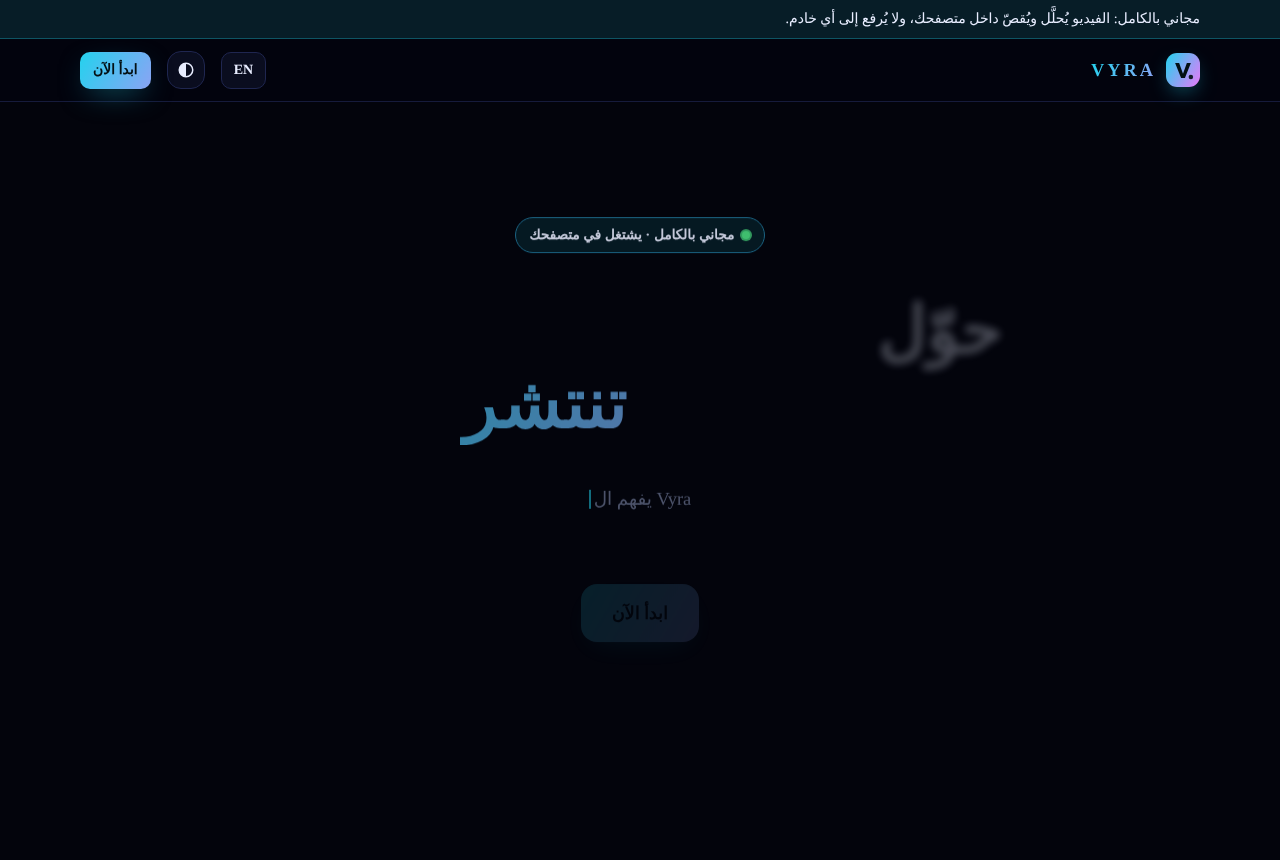
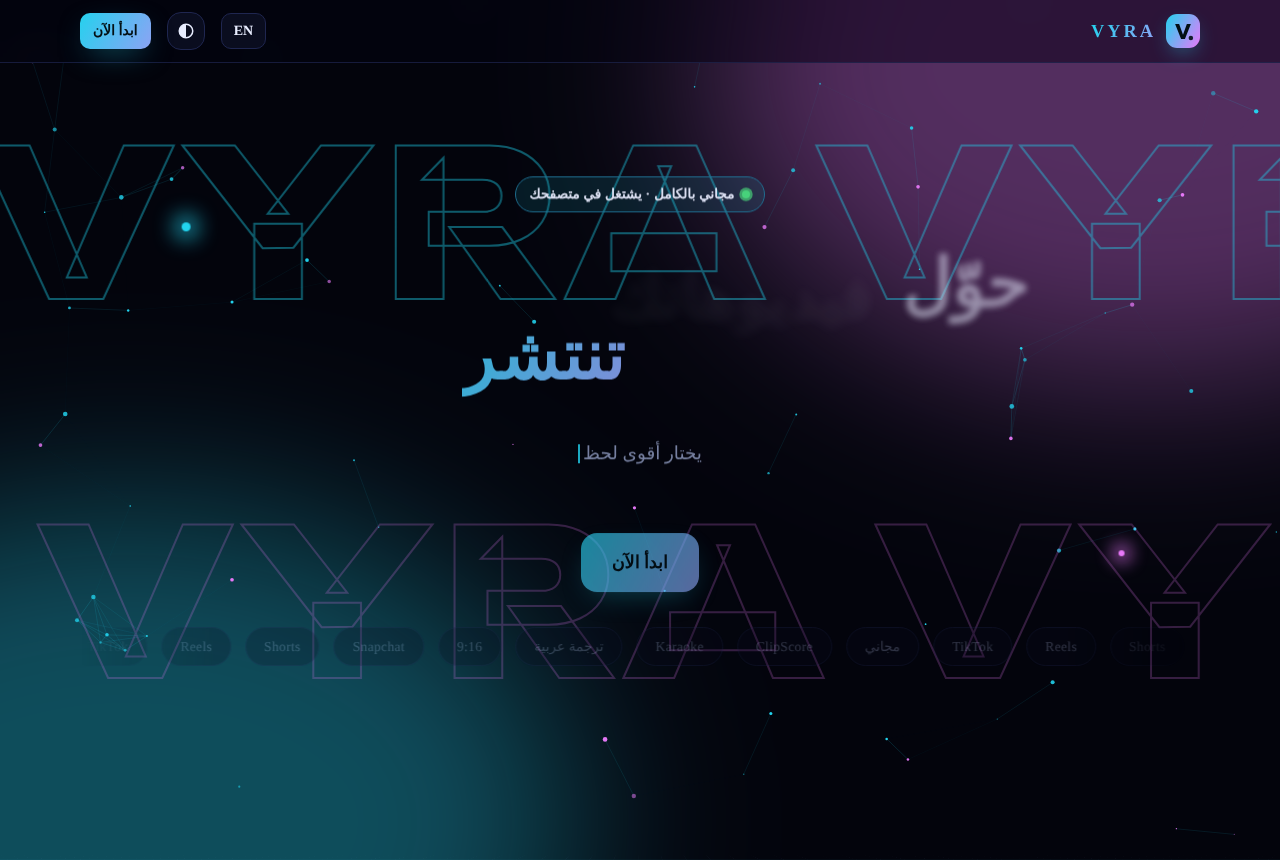
Simpler: two-step new project (pick video, pick language, one big start), options tucked away, no link tab in the free version, fewer words everywhere, result cards lead with Download, short disclaimer at the end
Claude-Session: https://claude.ai/code/session_012WBhWfUbRwin1wPpV6Fz8Z

diff --git a/apps/web/lib/i18n.tsx b/apps/web/lib/i18n.tsx
@@ -7,33 +7,33 @@ const ar: Dict = {
   tagline: "من الحلقة الطويلة إلى مقاطع جاهزة للنشر — بالعربي",
   nav_projects: "مشاريعي", nav_settings: "الإعدادات", nav_new: "مشروع جديد",
   no_watermark: "بدون علامة مائية",
-  phone_note: "على الجوال: أول مرة يُحمَّل نموذج تفريغ الكلام (حوالي 250 ميجابايت، يُفضَّل Wi-Fi)، ونفرّغ أهم 3 دقائق من الكلام لأن الجوال أبطأ. خلّ الشاشة مفتوحة وابقَ في الصفحة حتى ينتهي. للفيديوهات الطويلة الكمبيوتر أسرع وأدق.",
+  phone_note: "على الجوال: أول مرة يحمّل النموذج (يُفضّل Wi-Fi). خلّ الشاشة مفتوحة حتى ينتهي.",
   local_banner: "مجاني بالكامل: الفيديو يُحلَّل ويُقصّ داخل متصفحك، ولا يُرفع إلى أي خادم.",
   local_landing: "مجاني بالكامل وبدون حساب: ارفع حلقتك، ويحلّلها متصفحك ويطلع أقوى المقاطع العمودية مع الترجمة.",
   processing_hint_local: "التحليل يتم داخل متصفحك: أبقِ هذه الصفحة مفتوحة حتى ينتهي. أول مرة يُحمَّل نموذج تفريغ الكلام (مرة واحدة فقط).",
   local_export_note: "التصدير يتم داخل متصفحك وبالسرعة الطبيعية للمقطع؛ أبقِ الصفحة ظاهرة حتى ينتهي.",
   try_sample: "شوف مثالًا حقيقيًا جاهزًا", sample_loading: "جارٍ فتح المثال…",
-  showcase_t: "مقاطع حقيقية طلّعها Vyra من مقابلة عربية مدتها 10 دقائق", showcase_tap: "اضغط على أي مقطع لتسمع الصوت", showcase_open: "افتح المثال كاملًا وجرّب المحرّر",
+  showcase_t: "أمثلة حقيقية", showcase_tap: "اضغط على أي مقطع لتسمع الصوت", showcase_open: "افتح المثال كاملًا وجرّب المحرّر",
   showcase_credit: "المصدر: مقابلة «ولاء عبد المنعم» من ويكيميديا كومنز، إعداد Anass (WMF)، برخصة CC BY 3.0. اختار المقاطع وفرّغها محرّك Vyra داخل المتصفح، مع تصحيح يدوي لبعض كلمات الترجمة في المقاطع المعروضة.",
   stage_model: "تحميل نموذج تفريغ الكلام إلى متصفحك (حوالي 250 ميجابايت، مرة واحدة فقط)…",
   url_local_note: "استيراد روابط يوتيوب يحتاج خادمًا مدفوعًا، فهو غير متاح في النسخة المجانية. نزّل الفيديو ثم ارفعه من خيار «ملف».",
   long_video_note: "الفيديوهات الطويلة: نفرّغ أهم 10 دقائق من الكلام فيها فقط لتسريع التحليل.",
   demo_banner: "وضع تجريبي: الموقع غير متصل بخادم المعالجة بعد، لذلك لا يُحلَّل فيديوك أو رابطك — يُعرض مثال جاهز من حلقة نموذجية (المقاطع واللقطات مُنتجة فعليًا بمحرّك Vyra). التحليل الحقيقي يحتاج تشغيل خادم المعالجة.",
   hero_title: "حوّل حلقتك الطويلة إلى مقاطع تُشاهَد حتى النهاية",
-  hero_sub: "Vyra يفهم المعنى بالعربية (فصحى ولهجات)، فيقصّ عند حدود الأفكار لا عند أرقام ثابتة: بداية مفهومة، نهاية مكتملة، وترجمة عربية سليمة الحروف والاتجاه.",
-  f1_t: "يفهم السياق لا الصوت العالي", f1_d: "تقييم شفاف من 100 لكل مقطع، مع شرح عربي لسبب اقتراحه.",
-  f2_t: "ترجمة عربية صحيحة", f2_d: "اتصال الحروف واتجاه RTL وإبراز الكلمات، داخل مناطق آمنة بعيدة عن أزرار المنصات.",
-  f3_t: "بلا حساب ولا حدود", f3_d: "لا تسجيل دخول ولا اشتراك ولا حد للدقائق، والتصدير بجودة 1080p بدون أي علامة مائية.",
-  f4_t: "خصوصيتك أولًا", f4_d: "لا نُدرّب نماذج على فيديوهاتك دون موافقتك. حذف نهائي بضغطة، وحذف تلقائي بعد المدة التي تختارها.",
-  how_t: "كيف يعمل؟", s1: "ارفع الفيديو أو الصق رابطه", s2: "نفرّغ الكلام ونفهم الأفكار", s3: "نقترح أفضل المقاطع", s4: "عدّل وصدّر لـ TikTok وReels وShorts",
-  legal_note: "نستورد فقط الفيديوهات التي ترفعها أو ترسل رابطها أنت، ويجب أن تملك حقوقها أو إذنًا باستخدامها. لا نتجاوز أي حماية (فيديو خاص أو مشفّر) ولا ننشر نيابةً عنك بلا واجهة رسمية.",
+  hero_sub: "يختار أقوى لحظات فيديوك، يقصّها عموديًا، ويضيف الترجمة. مجانًا.",
+  f1_t: "أفضل اللقطات تلقائيًا", f1_d: "",
+  f2_t: "ترجمة عربية وإنجليزية", f2_d: "",
+  f3_t: "مجاني بلا حساب", f3_d: "",
+  f4_t: "تحميل 1080p فوري", f4_d: "",
+  how_t: "كيف يعمل؟", s1: "اختر الفيديو", s2: "نحلّله", s3: "اختر اللقطة", s4: "حمّلها",
+  legal_note: "إخلاء مسؤولية: أنت مسؤول عن حقوق أي فيديو ترفعه. التحليل والترجمة آليان وقد يحتويان أخطاء، راجع المقطع قبل نشره. فيديوك يُعالَج داخل متصفحك ولا يُرفع لأي خادم.",
   name: "الاسم",
   projects_title: "مشاريعي", no_projects: "لا توجد مشاريع بعد. ابدأ بمشروعك الأول.",
   start_now: "ابدأ الآن", no_account_title: "بدون حساب", device_note: "لا يوجد تسجيل دخول. مشاريعك مرتبطة بهذا المتصفح فقط؛ إن مسحت بيانات المتصفح أو غيّرت الجهاز فلن تستطيع الوصول إليها. نزّل المقاطع المصدَّرة لتحتفظ بها.",
   server_down: "تعذّر الاتصال بالخادم. تأكد أنه يعمل ثم حاول مجددًا.", retry: "إعادة المحاولة",
   new_title: "مشروع جديد", project_name: "اسم المشروع", pick_video: "اختر فيديو أو اسحبه هنا", pick_srt: "ملف ترجمة SRT/VTT (اختياري، يتجاوز التفريغ)",
   demo_upload_note: "في الوضع التجريبي يُستخدم فيديو نموذجي بدل ملفك.", start_analysis: "ابدأ التحليل", uploading: "جارٍ الرفع…",
-  eyebrow: "مجاني بالكامل · يشتغل في متصفحك", src_file: "رفع ملف", src_url: "من رابط", soon: "قريبًا", hero_lead: "حوّل فيديوهاتك الطويلة إلى مقاطع", hero_rot: "تنتشر|تُشاهَد|تبيع|تُبهر", dl_clip: "تحميل", dl_working: "نجهّز المقطع بالترجمة (أبقِ الصفحة مفتوحة)…", dl_ready: "تم: احفظ المقطع", dl_fail: "تعذّر تجهيز المقطع.", translating: "نترجم…", tr_fail: "تعذّرت الترجمة. تأكد من الاتصال بالإنترنت وجرّب مرة ثانية.", cap_lang: "لغة الترجمة على المقطع", cap_ar_tr: "عربية (مترجمة)", stage_translate: "الترجمة للعربية", tr_note: "نفرّغ الكلام بالإنجليزي ثم نترجمه للعربية بنموذج ترجمة داخل متصفحك (يُحمَّل مرة واحدة، حوالي 110 ميجا). تقدر تعدّل أي كلمة بعدها من تبويب «النص».", brand_title: "ألوان الهوية", brand_hint: "اختر لونين: يُطبَّقان على الموقع، ولافتة العنوان الافتتاحي، وإبراز الترجمة في المقاطع الجديدة.", brand_a: "اللون الأول", brand_b: "اللون الثاني", brand_reset: "إعادة الافتراضي", brand_sample: "هكذا ستظهر لافتة مقطعك", cap_presets: "أنماط جاهزة (ضغطة وحدة)", hook_on: "عنوان افتتاحي في أول ثواني", hook_ph: "اكتب عنوانًا جاذبًا", filter_all: "الكل", sort_score: "الأعلى تقييمًا", sort_time: "حسب الوقت", top_pick: "الأفضل", lang_label: "لغة الكلام في الفيديو", lang_auto: "تلقائي (يكتشفها النموذج)", lang_note: "مهم: اختر اللغة اللي يتكلم بها الفيديو فعلًا. لو اخترت العربية والكلام إنجليزي تطلع الترجمة غلط.", upload_first: "لازم تحمّل الفيديو على جهازك أولًا ثم ترفعه هنا. الاستيراد من الرابط قريبًا.", video_url: "رابط الفيديو", video_url_ph: "https://www.youtube.com/watch?v=…",
+  eyebrow: "مجاني بالكامل · يشتغل في متصفحك", src_file: "رفع ملف", src_url: "من رابط", soon: "قريبًا", easy_title: "اصنع مقاطعك", easy_sub: "خطوتين بس، والباقي علينا.", easy_s1: "اختر الفيديو", easy_s2: "الفيديو يتكلم بأي لغة؟", easy_pick: "اضغط هنا لاختيار فيديو", easy_pick_sub: "من جوالك أو جهازك، أو اسحبه هنا", easy_change: "اضغط لتغييره", easy_cap_en: "ترجمة إنجليزية", easy_more: "خيارات إضافية (اختياري)", hero_lead: "حوّل فيديوهاتك الطويلة إلى مقاطع", hero_rot: "تنتشر|تُشاهَد|تبيع|تُبهر", dl_clip: "تحميل", dl_working: "نجهّز المقطع بالترجمة (أبقِ الصفحة مفتوحة)…", dl_ready: "تم: احفظ المقطع", dl_fail: "تعذّر تجهيز المقطع.", translating: "نترجم…", tr_fail: "تعذّرت الترجمة. تأكد من الاتصال بالإنترنت وجرّب مرة ثانية.", cap_lang: "لغة الترجمة على المقطع", cap_ar_tr: "عربية (مترجمة)", stage_translate: "الترجمة للعربية", tr_note: "نفرّغه بالإنجليزي ونترجمه للعربية.", brand_title: "ألوان الهوية", brand_hint: "اختر لونين: يُطبَّقان على الموقع، ولافتة العنوان الافتتاحي، وإبراز الترجمة في المقاطع الجديدة.", brand_a: "اللون الأول", brand_b: "اللون الثاني", brand_reset: "إعادة الافتراضي", brand_sample: "هكذا ستظهر لافتة مقطعك", cap_presets: "أنماط جاهزة (ضغطة وحدة)", hook_on: "عنوان افتتاحي في أول ثواني", hook_ph: "اكتب عنوانًا جاذبًا", filter_all: "الكل", sort_score: "الأعلى تقييمًا", sort_time: "حسب الوقت", top_pick: "الأفضل", lang_label: "لغة الكلام في الفيديو", lang_auto: "تلقائي (يكتشفها النموذج)", lang_note: "اختر لغة الكلام الفعلية في الفيديو.", upload_first: "روابط يوتيوب قريبًا. الحين: حمّل الفيديو على جهازك ثم اختره هنا.", video_url: "رابط الفيديو", video_url_ph: "https://www.youtube.com/watch?v=…",
   url_hint: "يوتيوب وغيره من المواقع العامة. الفيديوهات الخاصة أو المحمية لا تعمل. استخدم فقط فيديوهات تملك حقوقها أو إذنًا باستخدامها.",
   demo_url_note: "في الوضع التجريبي لا يُنزَّل الرابط فعليًا؛ يُستخدم فيديو نموذجي بدله.", downloading: "جارٍ تنزيل الفيديو من الرابط…",
   status_empty: "فارغ", status_ready: "جاهز للتحليل", status_processing: "قيد المعالجة", status_done: "اكتمل", status_error: "خطأ",
@@ -48,7 +48,7 @@ const ar: Dict = {
   engine_heuristic: "تحليل محلي (بدون Claude)", engine_browser: "تحليل داخل المتصفح", engine_claude: "Claude",
   ed_trim: "القص", ed_emph: "إبراز", ed_layout: "التخطيط", ed_captions: "الترجمة", ed_text: "النص", ed_export: "التصدير",
   start: "البداية", end: "النهاية", layout_fill: "ملء الإطار", layout_fit: "احتواء بخلفية", layout_split: "شاشة مقسومة",
-  reframe: "تتبّع الموضوع", reframe_auto: "تلقائي", reframe_note: "المعاينة تقريبية؛ التتبّع التلقائي للموضوع يُطبَّق عند التصدير.", reframe_center: "المنتصف", reframe_manual: "يدوي", center_pos: "موضع الإطار",
+  reframe: "تتبّع الموضوع", reframe_auto: "تلقائي", reframe_note: "", reframe_center: "المنتصف", reframe_manual: "يدوي", center_pos: "موضع الإطار",
   cap_on: "إظهار الترجمة", cap_mode: "النمط", cap_karaoke: "إبراز تدريجي", cap_plain: "عادي", cap_pop: "كلمة كلمة", cap_pos: "الموضع", pos_bottom: "أسفل", pos_middle: "وسط", pos_top: "أعلى",
   cap_size: "حجم الخط", cap_color: "اللون", emphasis_hint: "اضغط على كلمة لإبرازها أو إلغاء إبرازها",
   edit_words_hint: "عدّل الكلمات مباشرة؛ ينعكس ذلك على الترجمة المحروقة.", saved: "تم الحفظ", saving: "جارٍ الحفظ…", conflict: "عُدِّل هذا المقطع في مكان آخر. أعد التحميل.",
@@ -66,33 +66,33 @@ const en: Dict = {
   tagline: "From long episodes to ready-to-post clips — Arabic first",
   nav_projects: "Projects", nav_settings: "Settings", nav_new: "New project",
   no_watermark: "No watermark",
-  phone_note: "On a phone: the speech model (about 250 MB, Wi-Fi recommended) is downloaded the first time, and we transcribe the 3 most promising minutes because phones are slower. Keep the screen on and stay on this page until it finishes. For long videos a computer is faster and more accurate.",
+  phone_note: "On a phone: the model downloads the first time (Wi-Fi recommended). Keep the screen on until it finishes.",
   local_banner: "Completely free: your video is analysed and cut inside your browser and never uploaded to a server.",
   local_landing: "Completely free, no account: upload your episode and your browser finds the strongest vertical clips with captions.",
   processing_hint_local: "Analysis runs inside your browser: keep this page open until it finishes. The first time, the speech model is downloaded (only once).",
   local_export_note: "Export runs inside your browser in real time; keep the page visible until it finishes.",
   try_sample: "Open a real ready-made example", sample_loading: "Opening the example…",
-  showcase_t: "Real clips Vyra cut from a 10-minute Arabic interview", showcase_tap: "Tap a clip to hear it", showcase_open: "Open the full example and try the editor",
+  showcase_t: "Real examples", showcase_tap: "Tap a clip to hear it", showcase_open: "Open the full example and try the editor",
   showcase_credit: "Source: interview with Walaa Abdelmanaem, Wikimedia Commons, by Anass (WMF), CC BY 3.0. Clips chosen and transcribed by Vyra in the browser; a few caption words in the featured clips were corrected by hand.",
   stage_model: "Downloading the speech model to your browser (about 250 MB, only once)…",
   url_local_note: "Importing YouTube links needs a paid server, so it is not available in the free version. Download the video, then upload it with the File option.",
   long_video_note: "Long videos: we transcribe only the most important 10 minutes of speech to keep analysis fast.",
   demo_banner: "Demo mode: the site is not connected to a processing server yet, so your video or link is NOT analysed — a ready-made sample episode is shown instead (clips and frames were really produced by the Vyra engine). Real analysis needs the processing server running.",
   hero_title: "Turn your long episode into clips people watch to the end",
-  hero_sub: "Vyra understands Arabic meaning (MSA and dialects), cutting at the edges of ideas rather than fixed lengths: an understandable start, a complete ending, and correctly shaped RTL captions.",
-  f1_t: "Understands context, not loudness", f1_d: "A transparent score out of 100 for every clip, with a plain-language reason.",
-  f2_t: "Correct Arabic captions", f2_d: "Joined letters, RTL direction and word highlighting, inside safe zones clear of platform buttons.",
-  f3_t: "No account, no limits", f3_d: "No sign-in, no subscription and no minutes cap. 1080p exports with no watermark.",
-  f4_t: "Privacy first", f4_d: "We never train on your videos without consent. One-click permanent deletion and automatic expiry.",
-  how_t: "How it works", s1: "Upload a video or paste its link", s2: "We transcribe and understand the ideas", s3: "We suggest the best clips", s4: "Edit and export for TikTok, Reels and Shorts",
-  legal_note: "We only import videos you upload or link yourself, and you must own the rights or have permission to use them. We never bypass protections (private or DRM-protected video) or post for you without an official API.",
+  hero_sub: "Picks your video's strongest moments, cuts them vertical and adds captions. Free.",
+  f1_t: "Best moments, automatically", f1_d: "",
+  f2_t: "Arabic & English captions", f2_d: "",
+  f3_t: "Free, no account", f3_d: "",
+  f4_t: "Instant 1080p download", f4_d: "",
+  how_t: "How it works", s1: "Choose the video", s2: "We analyse it", s3: "Pick a clip", s4: "Download it",
+  legal_note: "Disclaimer: you are responsible for the rights to any video you upload. Analysis and translation are automatic and may contain mistakes; review clips before posting. Your video is processed in your browser and never uploaded.",
   name: "Name",
   projects_title: "My projects", no_projects: "No projects yet. Start with your first one.",
   start_now: "Get started", no_account_title: "No account", device_note: "There is no sign-in. Your projects are tied to this browser only; if you clear browser data or switch devices you will lose access to them. Download exported clips to keep them.",
   server_down: "Cannot reach the server. Make sure it is running and try again.", retry: "Try again",
   new_title: "New project", project_name: "Project name", pick_video: "Choose a video or drop it here", pick_srt: "SRT/VTT subtitles (optional, skips transcription)",
   demo_upload_note: "In demo mode a sample video is used instead of your file.", start_analysis: "Start analysis", uploading: "Uploading…",
-  eyebrow: "Completely free · runs in your browser", src_file: "Upload a file", src_url: "From a link", soon: "Soon", hero_lead: "Turn your long videos into clips that", hero_rot: "go viral|get seen|sell|stun", dl_clip: "Download", dl_working: "Rendering the clip with captions (keep this page open)…", dl_ready: "Done: save the clip", dl_fail: "Could not render the clip.", translating: "Translating…", tr_fail: "Translation failed. Check your connection and try again.", cap_lang: "Caption language", cap_ar_tr: "Arabic (translated)", stage_translate: "Translating to Arabic", tr_note: "We transcribe the English speech, then translate it to Arabic with a model in your browser (one-time ~110 MB download). You can fix any word afterwards in the Text tab.", brand_title: "Brand colours", brand_hint: "Pick two colours: used across the site, the opening-title banner and the caption highlight of new clips.", brand_a: "First colour", brand_b: "Second colour", brand_reset: "Reset to default", brand_sample: "This is how your clip banner will look", cap_presets: "One-tap styles", hook_on: "Opening title in the first seconds", hook_ph: "Write a catchy title", filter_all: "All", sort_score: "Top score", sort_time: "By time", top_pick: "Top pick", lang_label: "Spoken language in the video", lang_auto: "Auto-detect", lang_note: "Pick the language spoken in the video: transcription and analysis use it. Captions are in the spoken language.", upload_first: "Download the video to your device first, then upload it here. Importing from a link is coming soon.", video_url: "Video link", video_url_ph: "https://www.youtube.com/watch?v=…",
+  eyebrow: "Completely free · runs in your browser", src_file: "Upload a file", src_url: "From a link", soon: "Soon", easy_title: "Make your clips", easy_sub: "Two steps, we do the rest.", easy_s1: "Choose the video", easy_s2: "What language is spoken?", easy_pick: "Tap here to choose a video", easy_pick_sub: "From your phone or computer, or drop it here", easy_change: "Tap to change it", easy_cap_en: "English captions", easy_more: "More options (optional)", hero_lead: "Turn your long videos into clips that", hero_rot: "go viral|get seen|sell|stun", dl_clip: "Download", dl_working: "Rendering the clip with captions (keep this page open)…", dl_ready: "Done: save the clip", dl_fail: "Could not render the clip.", translating: "Translating…", tr_fail: "Translation failed. Check your connection and try again.", cap_lang: "Caption language", cap_ar_tr: "Arabic (translated)", stage_translate: "Translating to Arabic", tr_note: "We transcribe the English and translate it to Arabic.", brand_title: "Brand colours", brand_hint: "Pick two colours: used across the site, the opening-title banner and the caption highlight of new clips.", brand_a: "First colour", brand_b: "Second colour", brand_reset: "Reset to default", brand_sample: "This is how your clip banner will look", cap_presets: "One-tap styles", hook_on: "Opening title in the first seconds", hook_ph: "Write a catchy title", filter_all: "All", sort_score: "Top score", sort_time: "By time", top_pick: "Top pick", lang_label: "Spoken language in the video", lang_auto: "Auto-detect", lang_note: "Pick the language actually spoken in the video.", upload_first: "Download the video to your device first, then upload it here. Importing from a link is coming soon.", video_url: "Video link", video_url_ph: "https://www.youtube.com/watch?v=…",
   url_hint: "YouTube and other public sites. Private or protected videos won't work. Only use videos you own or have permission to use.",
   demo_url_note: "In demo mode the link is not actually downloaded; a sample video is used instead.", downloading: "Downloading the video from the link…",
   status_empty: "Empty", status_ready: "Ready to analyze", status_processing: "Processing", status_done: "Done", status_error: "Error",
@@ -107,7 +107,7 @@ const en: Dict = {
   engine_heuristic: "Local analysis (no Claude)", engine_browser: "In-browser analysis", engine_claude: "Claude",
   ed_trim: "Trim", ed_emph: "Emphasis", ed_layout: "Layout", ed_captions: "Captions", ed_text: "Text", ed_export: "Export",
   start: "Start", end: "End", layout_fill: "Fill frame", layout_fit: "Fit with blur", layout_split: "Split screen",
-  reframe: "Subject tracking", reframe_auto: "Auto", reframe_note: "Preview is approximate; automatic subject tracking is applied at export.", reframe_center: "Center", reframe_manual: "Manual", center_pos: "Frame position",
+  reframe: "Subject tracking", reframe_auto: "Auto", reframe_note: "", reframe_center: "Center", reframe_manual: "Manual", center_pos: "Frame position",
   cap_on: "Show captions", cap_mode: "Style", cap_karaoke: "Word highlight", cap_plain: "Plain", cap_pop: "Word by word", cap_pos: "Position", pos_bottom: "Bottom", pos_middle: "Middle", pos_top: "Top",
   cap_size: "Font size", cap_color: "Color", emphasis_hint: "Click a word to emphasize or un-emphasize it",
   edit_words_hint: "Edit words directly; changes are burned into the captions.", saved: "Saved", saving: "Saving…", conflict: "This clip was changed elsewhere. Reload.",

diff --git a/apps/web/app/app/new/page.tsx b/apps/web/app/app/new/page.tsx
@@ -44,7 +44,7 @@ export default function NewProject() {
     e.preventDefault();
     setOver(false);
     const f = e.dataTransfer.files?.[0];
-    if (f) { setFile(f); if (!name) setName(f.name.replace(/\.[^.]+$/, "")); }
+    if (f) { setFile(f); setName(f.name.replace(/\.[^.]+$/, "")); }
   };
 
   const local = backend.mode === "local";
@@ -89,59 +89,70 @@ export default function NewProject() {
     }
   };
 
+  const pickFile = (f: File | undefined) => { if (f) { setFile(f); setName(f.name.replace(/\.[^.]+$/, "")); setErr(""); } };
+
   return (
-    <form className="stack narrow" style={{ width: "min(640px, 100%)" }} onSubmit={submit}>
-      <h1>{t("new_title")}</h1>
-      <label className="field">{t("project_name")}<input className="input" value={name} onChange={(e) => setName(e.target.value)} required={source === "file"} /></label>
-      <div className="seg" role="group" aria-label={t("pick_video")}>
-        <button type="button" aria-pressed={source === "file"} onClick={() => setSource("file")} disabled={busy}>{t("src_file")}</button>
-        <button type="button" aria-pressed={source === "url"} onClick={() => !local && setSource("url")} disabled={busy || local} aria-disabled={local} title={local ? t("soon") : undefined}>{t("src_url")}{local && <span className="soon-badge">{t("soon")}</span>}</button>
-      </div>
+    <form className="stack narrow simple-new" style={{ width: "min(560px, 100%)" }} onSubmit={submit}>
+      <h1 style={{ marginBottom: 0 }}>{t("easy_title")}</h1>
+      <p className="muted" style={{ margin: 0 }}>{t("easy_sub")}</p>
+
+      {/* 1. the video */}
+      <div className="easy-step"><span className="easy-num">1</span><b>{t("easy_s1")}</b></div>
       {source === "file" ? (
-        <div className={`drop${over ? " over" : ""}`} role="button" tabIndex={0}
-          onClick={() => fileRef.current?.click()} onKeyDown={(e) => e.key === "Enter" && fileRef.current?.click()}
+        <div className={`drop big-drop${over ? " over" : ""}${file ? " has-file" : ""}`} role="button" tabIndex={0}
+          onClick={() => !busy && fileRef.current?.click()} onKeyDown={(e) => e.key === "Enter" && fileRef.current?.click()}
           onDragOver={(e) => { e.preventDefault(); setOver(true); }} onDragLeave={() => setOver(false)} onDrop={onDrop}>
-          <b>{file ? file.name : t("pick_video")}</b>
-          <input ref={fileRef} type="file" accept="video/*,audio/*,.mkv" hidden onChange={(e) => { const f = e.target.files?.[0]; if (f) { setFile(f); if (!name) setName(f.name.replace(/\.[^.]+$/, "")); } }} />
+          {file ? (<><b className="file-name">🎬 {file.name}</b><span className="small muted">{t("easy_change")}</span></>)
+            : (<><b>{t("easy_pick")}</b><span className="small muted">{t("easy_pick_sub")}</span></>)}
+          <input ref={fileRef} type="file" accept="video/*,audio/*,.mkv" hidden onChange={(e) => pickFile(e.target.files?.[0])} />
         </div>
       ) : (
-        <div className="stack" style={{ gap: 6 }}>
-          <label className="field">{t("video_url")}
-            <input className="input" type="url" inputMode="url" dir="ltr" autoComplete="off" spellCheck={false}
-              placeholder={t("video_url_ph")} value={url} onChange={(e) => setUrl(e.target.value)} />
-          </label>
-          <p className="small muted" style={{ margin: 0 }}>{t(local ? "url_local_note" : "url_hint")}</p>
-        </div>
+        <label className="field">{t("video_url")}
+          <input className="input" type="url" inputMode="url" dir="ltr" autoComplete="off" spellCheck={false} placeholder={t("video_url_ph")} value={url} onChange={(e) => setUrl(e.target.value)} />
+        </label>
       )}
-      <div className="field">
-        <b>{t("lang_label")}</b>
-        <div className="seg" role="group" aria-label={t("lang_label")} data-testid="lang">
-          <button type="button" aria-pressed={lang === "ar"} onClick={() => setLang("ar")} disabled={busy}>العربية</button>
-          <button type="button" aria-pressed={lang === "en"} onClick={() => setLang("en")} disabled={busy}>English</button>
-        </div>
-        {lang === "en" && (<>
-          <b style={{ marginTop: 8 }}>{t("cap_lang")}</b>
-          <div className="seg" role="group" aria-label={t("cap_lang")} data-testid="cap-lang">
-            <button type="button" aria-pressed={toAr} onClick={() => setToAr(true)} disabled={busy}>{t("cap_ar_tr")}</button>
-            <button type="button" aria-pressed={!toAr} onClick={() => setToAr(false)} disabled={busy}>English</button>
-          </div>
-        </>)}
-        <span className="small muted" style={{ fontWeight: 400 }}>{lang === "en" && toAr ? t("tr_note") : t("lang_note")}</span>
+      {local && <p className="small muted" style={{ margin: 0 }} data-testid="upload-first">{t("upload_first")}</p>}
+
+      {/* 2. language */}
+      <div className="easy-step"><span className="easy-num">2</span><b>{t("easy_s2")}</b></div>
+      <div className="seg big-seg" role="group" aria-label={t("lang_label")} data-testid="lang">
+        <button type="button" aria-pressed={lang === "ar"} onClick={() => setLang("ar")} disabled={busy}>العربية</button>
+        <button type="button" aria-pressed={lang === "en"} onClick={() => setLang("en")} disabled={busy}>English</button>
       </div>
-      {local && source === "file" && <p className="small muted" style={{ margin: 0 }} data-testid="upload-first">{t("upload_first")}</p>}
-      {local && phone && <div className="note" role="note" data-testid="phone-note">{t("phone_note")}</div>}
-      {local && source === "file" && (
-        <div className="row" style={{ gap: 8 }}>
-          <button type="button" className="btn sm" onClick={pickSample} disabled={busy || sampling}>{sampling ? t("sample_loading") : t("try_sample")}</button>
-          <span className="small muted">{t("long_video_note")}</span>
+      {lang === "en" && (
+        <div className="seg" role="group" aria-label={t("cap_lang")} data-testid="cap-lang">
+          <button type="button" aria-pressed={toAr} onClick={() => setToAr(true)} disabled={busy}>{t("cap_ar_tr")}</button>
+          <button type="button" aria-pressed={!toAr} onClick={() => setToAr(false)} disabled={busy}>{t("easy_cap_en")}</button>
         </div>
       )}
-      {backend.mode === "demo" && <p className="small muted" style={{ margin: 0 }}>{t(source === "url" ? "demo_url_note" : "demo_upload_note")}</p>}
-      <label className="field">{t("pick_srt")}<input className="input" type="file" accept=".srt,.vtt,text/vtt" onChange={(e) => setSrt(e.target.files?.[0] ?? null)} /></label>
-      {srt && <span className="small muted" data-testid="srt-name">✓ {srt.name}</span>}
+      <span className="small muted">{lang === "en" && toAr ? t("tr_note") : t("lang_note")}</span>
+
+      {/* 3. go */}
       {busy && <div><div className="small muted">{t(source === "url" ? "downloading" : "uploading")}</div><Progress value={frac} /></div>}
       {err && <div className="err" role="alert">{err}</div>}
-      <button className="btn primary" disabled={busy || missing}>{t("start_analysis")}</button>
+      <button className="btn primary big-go" disabled={busy || missing}>{t("start_analysis")} ✨</button>
+      {local && phone && <div className="note small" role="note" data-testid="phone-note">{t("phone_note")}</div>}
+
+      {local && (
+        <button type="button" className="link-btn" onClick={pickSample} disabled={busy || sampling}>{sampling ? t("sample_loading") : t("try_sample")}</button>
+      )}
+      {backend.mode === "demo" && <p className="small muted" style={{ margin: 0 }}>{t(source === "url" ? "demo_url_note" : "demo_upload_note")}</p>}
+
+      <details className="more">
+        <summary>{t("easy_more")}</summary>
+        <div className="stack" style={{ marginTop: 10 }}>
+          <label className="field">{t("project_name")}<input className="input" value={name} onChange={(e) => setName(e.target.value)} /></label>
+          {!local && (
+            <div className="seg" role="group" aria-label={t("pick_video")}>
+              <button type="button" aria-pressed={source === "file"} onClick={() => setSource("file")} disabled={busy}>{t("src_file")}</button>
+              <button type="button" aria-pressed={source === "url"} onClick={() => setSource("url")} disabled={busy}>{t("src_url")}</button>
+            </div>
+          )}
+          <label className="field">{t("pick_srt")}<input className="input" type="file" accept=".srt,.vtt,text/vtt" onChange={(e) => setSrt(e.target.files?.[0] ?? null)} /></label>
+          {srt && <span className="small muted" data-testid="srt-name">✓ {srt.name}</span>}
+          {local && <span className="small muted">{t("long_video_note")}</span>}
+        </div>
+      </details>
     </form>
   );
 }

diff --git a/apps/web/app/app/p/[id]/page.tsx b/apps/web/app/app/p/[id]/page.tsx
@@ -66,17 +66,11 @@ function ClipCard({ s, pid, onEdit, busy, top }: { s: Suggestion; pid: string; o
           <h3 className="clip-title">#{s.rank} · {s.title}</h3>
           <span className="chip">{t("type_" + s.clip_type)}</span>
         </div>
-        <div className="row small muted" style={{ marginBlock: 4 }}>
-          <span dir="ltr">{fmtTime(s.start)} – {fmtTime(s.end)}</span>
-          <span>{t("dur")}: {fmtDuration(s.duration)}</span>
-          <span className="chip">{t("engine_" + s.engine)}</span>
-        </div>
-        <p style={{ margin: "6px 0" }}>{s.reason_ar}</p>
+        <div className="row small muted" style={{ marginBlock: 4 }}><span>{fmtDuration(s.duration)}</span></div>
         <div className="row">
           <button className="btn primary sm" onClick={download} disabled={busy || (!!dl && !dl.err && !dl.url)} data-testid="dl-btn">⬇ {t("dl_clip")}</button>
           <button className="btn sm" onClick={() => onEdit(s)} disabled={busy}>{t("edit")}</button>
-          <button className="btn sm" onClick={() => setPreview((v) => !v)}>{t("preview_source")}</button>
-          <button className="btn sm" onClick={() => setWhy((v) => !v)} aria-expanded={why}>{t("why_clip")}</button>
+          <button className="btn sm ghost-btn" onClick={() => setWhy((v) => !v)} aria-expanded={why} aria-label={t("why_clip")}>⋯</button>
         </div>
         {dl && (
           <div className="dl-box" data-testid="dl-box">
@@ -85,7 +79,13 @@ function ClipCard({ s, pid, onEdit, busy, top }: { s: Suggestion; pid: string; o
               : <><span className="small muted">{t("dl_working")} {Math.round(dl.p * 100)}%</span><Progress value={dl.p} /></>}
           </div>
         )}
-        {why && <Breakdown s={s} />}
+        {why && (
+          <div className="stack" style={{ gap: 8, marginTop: 8 }}>
+            <p className="small muted" style={{ margin: 0 }}><span dir="ltr">{fmtTime(s.start)} – {fmtTime(s.end)}</span> · {s.reason_ar}</p>
+            <button className="btn sm" style={{ alignSelf: "flex-start" }} onClick={() => setPreview((v) => !v)}>{t("preview_source")}</button>
+            <Breakdown s={s} />
+          </div>
+        )}
         {preview && <video ref={vref} className="clip-video" src={backend.mediaUrl(pid)} controls playsInline />}
       </div>
     </article>

diff --git a/apps/web/app/globals.css b/apps/web/app/globals.css
@@ -433,3 +433,22 @@ body > main, .topbar, .banner, .footer { position: relative; z-index: 1; }
 .logo-word { background: var(--grad) !important; background-size: 200% 100% !important; -webkit-background-clip: text !important; background-clip: text !important; color: transparent !important; animation: gradmove 5s linear infinite; }
 @media (max-width: 640px) { .bd-wm.w1 { top: 10vh; } .bd-floor { height: 26vh; } }
 @media (prefers-reduced-motion: reduce) { .hero-title .rv { opacity: 1; transform: none; filter: none; } .hero-title .rot span:first-child { opacity: 1; } .bd-net { display: none; } }
+
+/* easy new-project flow */
+.simple-new { gap: 14px; }
+.easy-step { display: flex; align-items: center; gap: 10px; margin-top: 6px; font-size: 1.05rem; }
+.easy-num { display: grid; place-items: center; width: 30px; height: 30px; border-radius: 50%; background: var(--grad); color: var(--primary-ink); font-weight: 800; flex: none; }
+.big-drop { min-height: 170px; display: flex; flex-direction: column; align-items: center; justify-content: center; gap: 6px; font-size: 1.1rem; cursor: pointer; }
+.big-drop.has-file { border-style: solid; border-color: var(--primary); }
+.big-drop.has-file::before { content: "✓"; }
+.big-drop .file-name { word-break: break-all; }
+.big-seg button { min-height: 52px; font-size: 1.05rem; font-weight: 700; }
+.big-go { width: 100%; min-height: 58px; font-size: 1.15rem; }
+.link-btn { background: none; border: 0; color: var(--primary); font: inherit; font-weight: 700; cursor: pointer; text-decoration: underline; text-underline-offset: 4px; padding: 6px; align-self: center; }
+.more { border: 1px solid var(--border); border-radius: 16px; padding: 10px 14px; background: color-mix(in srgb, var(--surface) 60%, transparent); }
+.more summary { cursor: pointer; color: var(--muted); font-weight: 600; }
+
+.disclaimer { margin-top: 56px; padding-top: 18px; border-top: 1px solid var(--border); font-size: .78rem; color: var(--muted); text-align: center; line-height: 1.7; }
+.disclaimer p { margin: 0 0 6px; } .disclaimer a { color: var(--muted); }
+.ghost-btn { min-width: 40px; font-weight: 800; letter-spacing: 2px; }
+.grid4 .card h3 { margin: 0; }

diff --git a/apps/web/app/page.tsx b/apps/web/app/page.tsx
@@ -49,7 +49,6 @@ export default function Landing() {
         {sc && (
           <>
             <h2 style={{ marginTop: 36, marginBottom: 0, fontSize: "1.25rem" }}>{t("showcase_t")}</h2>
-            <p className="small muted" style={{ margin: "4px 0 0" }}>{t("showcase_tap")}</p>
             <div className="showcase" data-testid="showcase">
               {sc.suggestions.slice(0, 3).map((s) => (
                 <ShowcasePhone key={s.id} src={sc.source.preview_url} start={s.start} end={s.end} center={s.center ?? 0.5}
@@ -61,10 +60,8 @@ export default function Landing() {
                 <button type="button" className="btn" onClick={openSample} disabled={opening}>{opening ? t("sample_loading") : t("showcase_open")}</button>
               </div>
             )}
-            <p className="small muted showcase-credit"><a href={sc.source.page} target="_blank" rel="noreferrer">{t("showcase_credit")}</a></p>
           </>
         )}
-        <p className="small muted" style={{ marginTop: 0 }}>{t("local_landing")}</p>
       </section>
 
       <section className="grid4" style={{ marginBottom: 56 }}>
@@ -72,7 +69,6 @@ export default function Landing() {
           <div className="card" key={i} data-reveal style={{ "--d": `${i * 90}ms` } as React.CSSProperties}>
             <div className="feat-ic" aria-hidden>{["✦", "✎", "◐", "⚡"][i - 1]}</div>
             <h3>{t(`f${i}_t`)}</h3>
-            <p className="muted" style={{ margin: 0 }}>{t(`f${i}_d`)}</p>
           </div>
         ))}
       </section>
@@ -83,7 +79,10 @@ export default function Landing() {
           {[1, 2, 3, 4].map((i) => <div className="card step" key={i} data-reveal style={{ "--d": `${i * 90}ms` } as React.CSSProperties}><b>{t(`s${i}`)}</b></div>)}
         </div>
       </section>
-      <p className="footer">{t("legal_note")}</p>
+      <footer className="footer disclaimer">
+        <p>{t("legal_note")}</p>
+        {sc && <p><a href={sc.source.page} target="_blank" rel="noreferrer">{t("showcase_credit")}</a></p>}
+      </footer>
     </Shell>
   );
 }

diff --git a/apps/web/components/ui.tsx b/apps/web/components/ui.tsx
@@ -52,7 +52,6 @@ export function Shell({ children, authed = false }: { children: ReactNode; authe
   return (
     <>
       {backend.mode === "demo" && <div className="banner"><div className="container">{t("demo_banner")}</div></div>}
-      {backend.mode === "local" && <div className="banner ok"><div className="container">{t("local_banner")}</div></div>}
       <header className={authed ? "topbar authed" : "topbar"}>
         <div className="container">
           <Logo />

diff --git a/apps/web/components/PhonePreview.tsx b/apps/web/components/PhonePreview.tsx
@@ -120,7 +120,6 @@ export function PhonePreview({ src, es, words, aspect }: Props) {
         <button className="btn icon-btn" onClick={() => setMuted((m) => !m)} aria-label="mute">{muted ? "🔇" : "🔊"}</button>
       </div>
       <span className="muted small" dir="ltr">{fmtTime(time - es.start)} / {fmtTime(es.end - es.start)}</span>
-      <span className="muted small" style={{ textAlign: "center", maxWidth: 300 }}>{t("reframe_note")}</span>
     </div>
   );
 }
